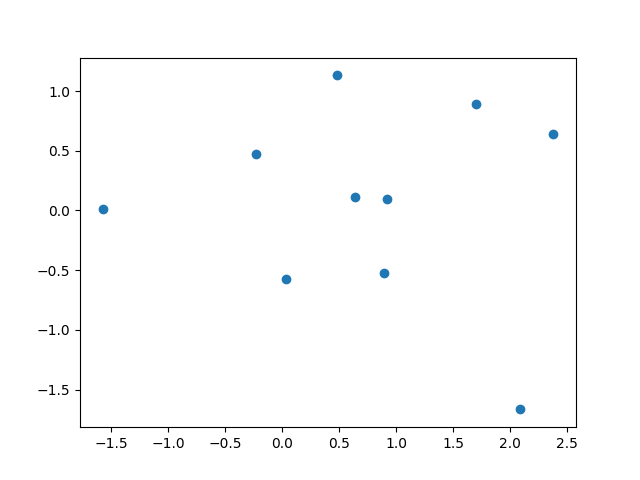
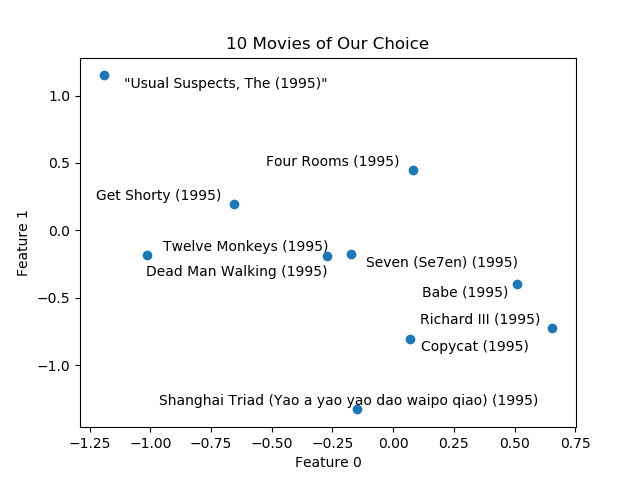
updated graphing

diff --git a/src/5.1.py b/src/5.1.py
@@ -7,6 +7,7 @@ from prob2utils import train_model, get_err
 import math
 import sys
 import operator
+from adjustText import adjust_text
         
 def main():
     #movie_info = np.genfromtxt('../data/movies.txt', dtype="str", delimiter="\t", usecols=(0, 1, 3, 7, 16))
@@ -68,8 +69,15 @@ def main():
 
 
     # 1. 10 movies of our choice from the MovieLens dataset 
-
+    
     plt.scatter(x[2:12], y[2:12])
+    texts = []
+    for j, txt in enumerate(movie_names[2:12]):
+        texts.append(plt.text(x[2:12][j], y[2:12][j], txt))
+    adjust_text(texts)
+    plt.xlabel('Feature 0')
+    plt.ylabel('Feature 1')
+    plt.title('10 Movies of Our Choice')
     plt.savefig('Standard-choice.png')
     plt.clf()
 
@@ -92,8 +100,14 @@ def main():
     print(movie_title)
 
     plt.scatter(x_pop, y_pop)
+    texts = []
     for j, txt in enumerate(movie_title):
-        plt.annotate(txt, (x_pop[j], y_pop[j]))
+        texts.append(plt.text(x_pop[j], y_pop[j], txt))
+        #plt.annotate(txt, (x_pop[j], y_pop[j]))
+    adjust_text(texts)
+    plt.xlabel('Feature 0')
+    plt.ylabel('Feature 1')
+    plt.title('10 Most Popular Movies')
     plt.savefig('Standard-popular.png')
     plt.clf()
 
@@ -113,7 +127,14 @@ def main():
             x_best.append(i[0])
             y_best.append(i[1])
 
+    for j, txt in enumerate(movie_title):
+        plt.annotate(txt, (x_best[j], y_best[j]))
     plt.scatter(x_best, y_best)
+    plt.xlabel('Feature 0')
+    plt.ylabel('Feature 1')
+    plt.title('10 Best Movies')
+    plt.xlabel("Feature 0")
+    plt.ylabel("Feature 1")
     plt.savefig('Standard-best.png')
     plt.clf()
 
@@ -164,9 +185,11 @@ def main():
             x_romance.append(i[0])
             y_romance.append(i[1])
 
-    plt.scatter(x_action[2:12], y_action[2:12])
-    plt.scatter(x_comedy[2:12], y_comedy[2:12], color = 'orange')
-    plt.scatter(x_romance[2:12], y_romance[2:12], color = 'green')
+    plt.scatter(x_action[2:12], y_action[2:12], label = "Action")
+    plt.scatter(x_comedy[2:12], y_comedy[2:12], color = 'orange', label = "Comedy")
+    plt.scatter(x_romance[2:12], y_romance[2:12], color = 'green', label = "Romance")
+    plt.legend()
+    plt.title("Three Genres")
     plt.savefig('Standard-genres.png')
     plt.clf()
     
